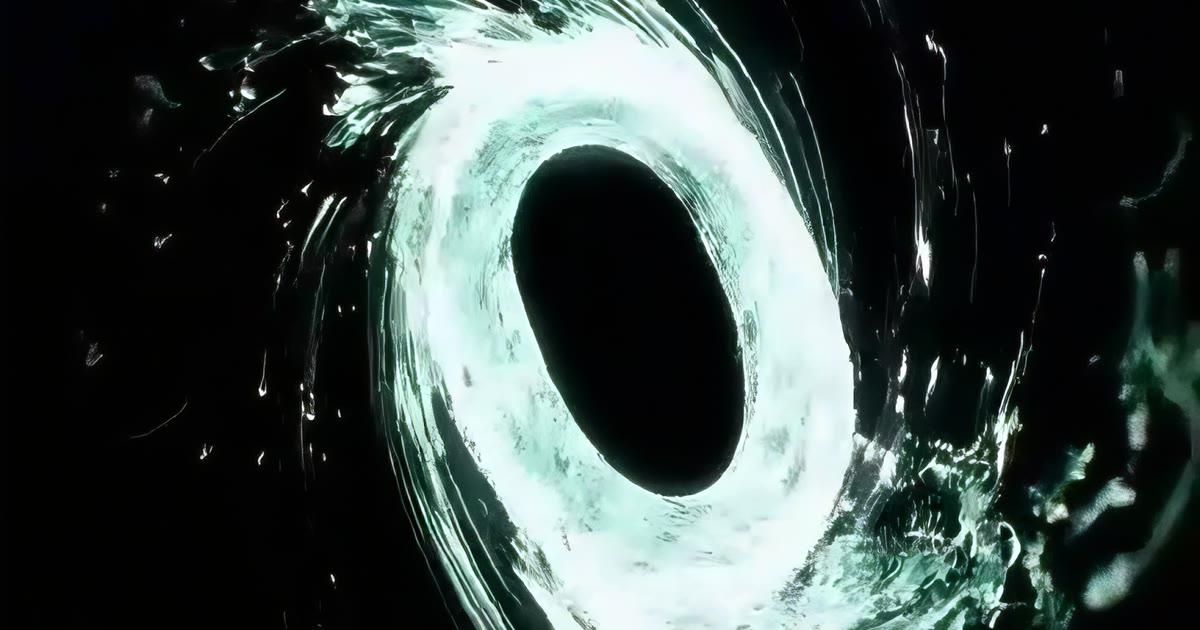
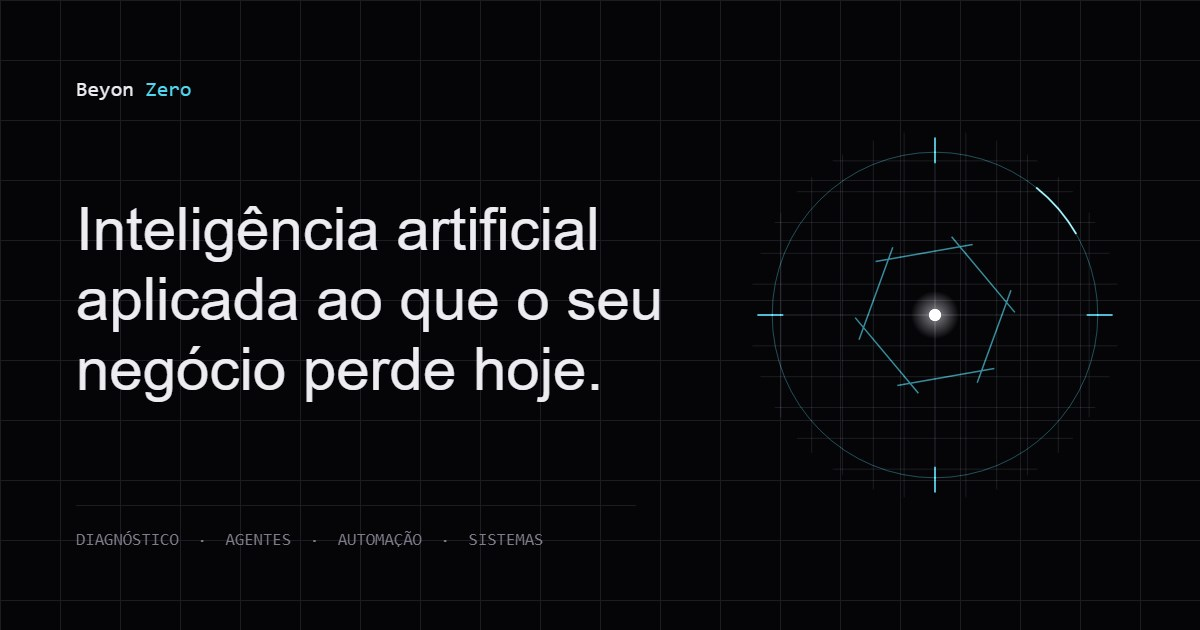
fix: capa social atualizada — resolvido sem ponte navegador->disco
Continuacao do que ficou pendente na varredura de lapidacao: og-cover.jpg
era do primeiro commit do projeto e mostrava o vortice ciano do design antigo.

O CAMINHO
Achei Chrome instalado no sistema (fora do navegador interativo desta sessao)
e rodei ele direto em modo headless via linha de comando:

  chrome.exe --headless=new --window-size=1200,630 --screenshot=...
             --user-data-dir=<perfil isolado> docs/og-render.html

Isso resolve o problema de raiz: nao precisa de ponte navegador->disco nenhuma
porque o PROPRIO Chrome escreve o PNG no disco via --screenshot. O primeiro
cuidado foi nao reusar a sessao do usuario — a primeira tentativa sem
--user-data-dir anexou na janela de Chrome REAL dele ("Abrindo em uma sessao
de navegador existente"); a segunda usou um perfil temporario isolado.

docs/og-render.html e um alvo limpo: SO o canvas de 1200x630, sem a interface
de docs/og-gerador.html (que continua existindo, para quem preferir gerar e
baixar manualmente pelo navegador de verdade). Screenshot da pagina com
interface teria capturado o H1 e os paragrafos junto.

PNG -> JPEG via System.Drawing do PowerShell (nativo do Windows, sem
dependencia nova): 62KB -> 89KB em qualidade 90, 1200x630 exatos — bate com
og:image:width/height que ja estavam no HTML.

og:image:alt atualizado: "vortice de energia ciano sobre fundo preto" (a
imagem antiga) -> "a abertura do AI Core sobre uma malha tecnica" (a atual).
[…]

diff --git a/docs/og-render.html b/docs/og-render.html
@@ -1,0 +1,108 @@
+<!DOCTYPE html>
+<html>
+<head>
+<meta charset="UTF-8" />
+<title>og-render</title>
+<link rel="preconnect" href="https://fonts.googleapis.com" />
+<link rel="preconnect" href="https://fonts.gstatic.com" crossorigin />
+<link href="https://fonts.googleapis.com/css2?family=Sora:wght@300;600&family=JetBrains+Mono:wght@400;500&display=swap" rel="stylesheet" />
+<style>
+  /* NADA além do canvas: esta página existe só para ser fotografada por
+     Chrome headless (--window-size=1200,630 --screenshot). Qualquer margem,
+     padding ou segundo elemento vaza para dentro do PNG capturado. Ver
+     docs/og-gerador.html para a versão com interface, usada manualmente. */
+  html, body { margin: 0; padding: 0; background: #050507; }
+  canvas { display: block; }
+</style>
+</head>
+<body>
+<canvas id="c" width="1200" height="630"></canvas>
+<script>
+(function () {
+  var W = 1200, H = 630;
+  var BG = '#050507', LINE = '#1C1C22', AC = '#4FD8F0', T1 = '#EDEDF1', T3 = '#7E7E8A';
+  var TAU = Math.PI * 2, LAMINAS = 6, K_HEX = 1 / Math.cos(Math.PI / LAMINAS);
+
+  function desenhar(x) {
+    x.fillStyle = BG; x.fillRect(0, 0, W, H);
+
+    x.strokeStyle = LINE; x.lineWidth = 1; x.beginPath();
+    for (var gx = 0; gx <= W; gx += 60) { x.moveTo(gx + .5, 0); x.lineTo(gx + .5, H); }
+    for (var gy = 0; gy <= H; gy += 60) { x.moveTo(0, gy + .5); x.lineTo(W, gy + .5); }
+    x.stroke();
+
+    var cx = 935, cy = 315, R = 185;
+    x.save(); x.globalCompositeOperation = 'lighter';
+
+    x.strokeStyle = 'rgba(104,110,124,.20)'; x.lineWidth = 1; x.beginPath();
+    var passo = R / 6;
+    for (var i = -5; i <= 5; i++) {
+      if (!i) continue;
+      var d = i * passo, meia = Math.sqrt(Math.max(0, R * R - d * d));
+      x.moveTo(cx + d, cy - meia); x.lineTo(cx + d, cy + meia);
+      x.moveTo(cx - meia, cy + d); x.lineTo(cx + meia, cy + d);
+    }
+    x.stroke();
+
+    x.strokeStyle = 'rgba(79,216,240,.34)';
+    x.beginPath(); x.arc(cx, cy, R * .88, 0, TAU); x.stroke();
+    x.strokeStyle = 'rgba(79,216,240,.75)'; x.lineWidth = 2; x.beginPath();
+    [0, .25, .5, .75].forEach(function (f) {
+      var a = f * TAU, ca = Math.cos(a), sa = Math.sin(a);
+      x.moveTo(cx + ca * R * .82, cy + sa * R * .82);
+      x.lineTo(cx + ca * R * .96, cy + sa * R * .96);
+    });
+    x.stroke();
+
+    x.strokeStyle = 'rgba(165,235,246,.8)'; x.lineWidth = 2;
+    x.beginPath(); x.arc(cx, cy, R * .88, -0.9, -0.52); x.stroke();
+
+    var rIn = R * .34, rOut = rIn * K_HEX * 1.10;
+    var meiaCorda = Math.sqrt(rOut * rOut - rIn * rIn);
+    x.strokeStyle = 'rgba(79,216,240,.62)'; x.lineWidth = 1.5; x.beginPath();
+    for (var l = 0; l < LAMINAS; l++) {
+      var al = 0.35 + l / LAMINAS * TAU;
+      var lx = cx + Math.cos(al) * rIn, ly = cy + Math.sin(al) * rIn;
+      var ldx = -Math.sin(al) * meiaCorda, ldy = Math.cos(al) * meiaCorda;
+      x.moveTo(lx - ldx, ly - ldy); x.lineTo(lx + ldx, ly + ldy);
+    }
+    x.stroke();
+
+    x.strokeStyle = 'rgba(104,110,124,.35)'; x.lineWidth = 1; x.beginPath();
+    x.moveTo(cx - R * .96, cy); x.lineTo(cx + R * .96, cy);
+    x.moveTo(cx, cy - R * .96); x.lineTo(cx, cy + R * .96);
+    x.stroke();
+
+    var g = x.createRadialGradient(cx, cy, 0, cx, cy, R * .13);
+    g.addColorStop(0, 'rgba(240,242,246,.55)');
+    g.addColorStop(1, 'rgba(240,242,246,0)');
+    x.fillStyle = g; x.beginPath(); x.arc(cx, cy, R * .13, 0, TAU); x.fill();
+    x.fillStyle = '#F4F5F8'; x.beginPath(); x.arc(cx, cy, 6, 0, TAU); x.fill();
+    x.restore();
+
+    var P = 76;
+    x.textBaseline = 'alphabetic';
+    x.font = '500 21px "JetBrains Mono", monospace';
+    x.fillStyle = T1; x.fillText('Beyon ', P, 96);
+    x.fillStyle = AC; x.fillText('Zero', P + x.measureText('Beyon ').width, 96);
+
+    x.font = '300 60px Sora, sans-serif'; x.fillStyle = T1;
+    ['Inteligência artificial', 'aplicada ao que o seu', 'negócio perde hoje.']
+      .forEach(function (linha, n) { x.fillText(linha, P, 250 + n * 70); });
+
+    x.strokeStyle = LINE; x.lineWidth = 1;
+    x.beginPath(); x.moveTo(P, 505.5); x.lineTo(P + 560, 505.5); x.stroke();
+    x.font = '400 17px "JetBrains Mono", monospace'; x.fillStyle = T3;
+    x.fillText('DIAGNÓSTICO  ·  AGENTES  ·  AUTOMAÇÃO  ·  SISTEMAS', P, 545);
+
+    document.title = 'pronto';   /* sinal pro --virtual-time-budget/polling */
+  }
+
+  var c = document.getElementById('c');
+  var ctx = c.getContext('2d');
+  (document.fonts && document.fonts.ready ? document.fonts.ready : Promise.resolve())
+    .then(function () { desenhar(ctx); });
+})();
+</script>
+</body>
+</html>

diff --git a/docs/og-gerador.html b/docs/og-gerador.html
@@ -30,9 +30,18 @@
   o site carrega.
 </p>
 <p>
-  Existe porque o ambiente onde a reformulação foi feita não tem ponte do
-  navegador para o disco: dá para <em>desenhar</em> a imagem, mas não para
-  gravá-la. Aqui você grava em um clique.
+  <strong>Já resolvido nesta sessão:</strong> <code>assets/og-cover.jpg</code>
+  foi trocado — Chrome instalado no sistema rodou em modo headless
+  (<code>--screenshot</code>) apontando para <code>docs/og-render.html</code>
+  — a mesma composição, sem a interface desta página em volta — e o PNG
+  resultante virou JPEG via <code>System.Drawing</code> do PowerShell. Sem
+  precisar de nenhuma ponte navegador→disco: o processo inteiro rodou fora do
+  navegador interativo. O <code>og:image:alt</code> também já foi atualizado.
+</p>
+<p>
+  Esta página continua aqui como via manual — se a composição mudar nesta
+  página, rode o mesmo desenho em <code>docs/og-render.html</code> (o alvo do
+  headless) para manter as duas iguais, ou baixe por aqui e substitua à mão.
 </p>
 
 <canvas id="c" width="1200" height="630"></canvas>
@@ -42,7 +51,7 @@
   <li>Clique em baixar e salve o arquivo como <code>og-cover.jpg</code>.</li>
   <li>Substitua <code>assets/og-cover.jpg</code> por ele.</li>
   <li>
-    Atualize o <code>og:image:alt</code> no <code>index.html</code> — hoje ele diz
+    Confira o <code>og:image:alt</code> no <code>index.html</code> — hoje ele diz
     <em>"vórtice de energia ciano sobre fundo preto"</em>, que descreve a imagem
     antiga. Algo como
     <code>"Beyon Zero — o núcleo de precisão sobre malha técnica"</code>.

diff --git a/index.html b/index.html
@@ -19,7 +19,7 @@
   <meta property="og:image" content="https://beyon0-site.vercel.app/assets/og-cover.jpg" />
   <meta property="og:image:width" content="1200" />
   <meta property="og:image:height" content="630" />
-  <meta property="og:image:alt" content="Beyon Zero — vórtice de energia ciano sobre fundo preto" />
+  <meta property="og:image:alt" content="Beyon Zero — a abertura do AI Core sobre uma malha técnica" />
 
   <meta name="twitter:card" content="summary_large_image" />
   <meta name="twitter:title" content="Beyon Zero — applied intelligence" />
